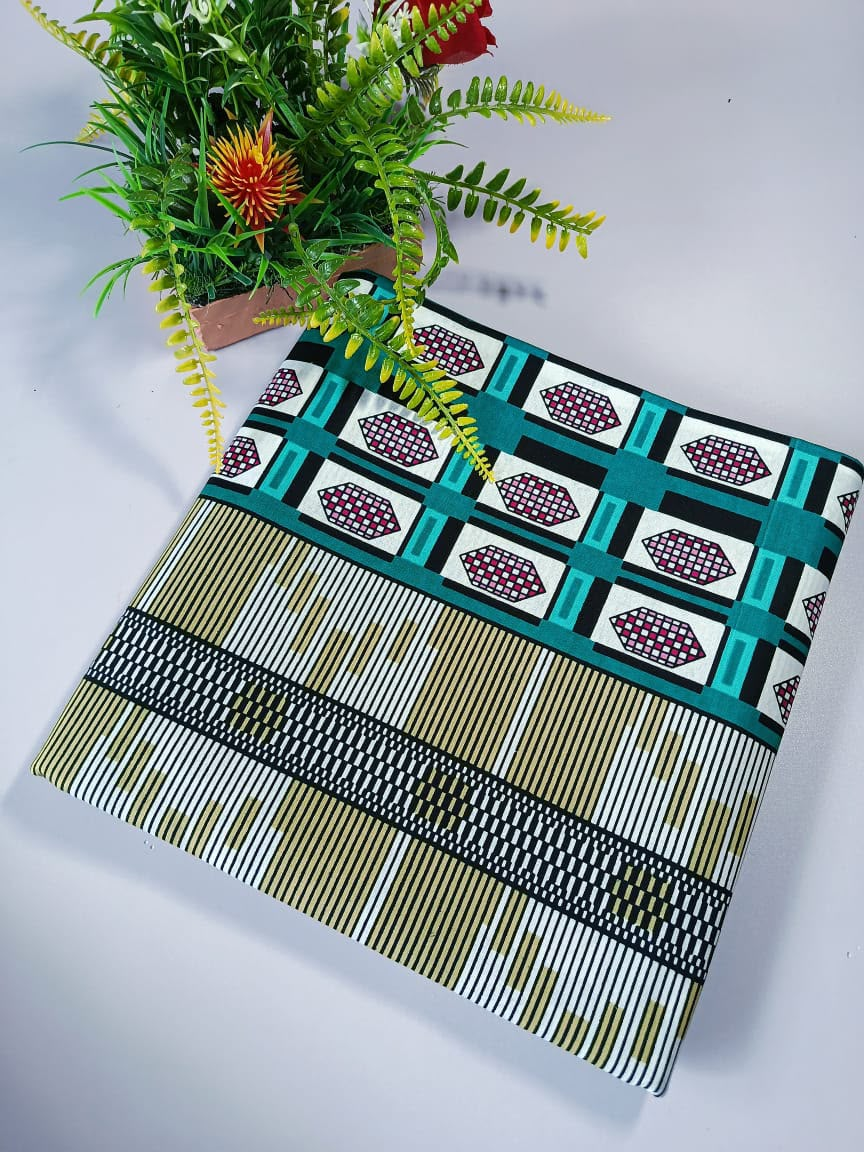
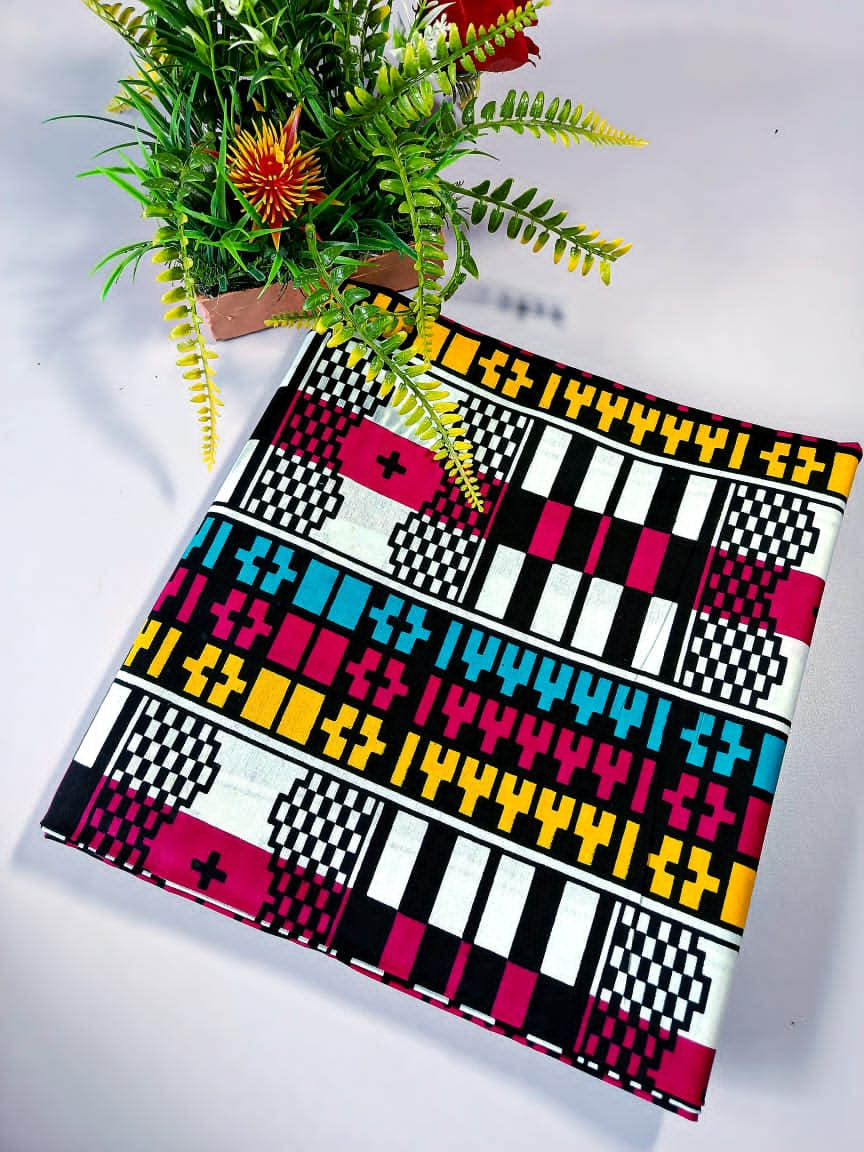
new wrappers and edited new section

diff --git a/src/data/products.js b/src/data/products.js
@@ -63,16 +63,11 @@ export const products = [
   // ----------------------------------------------------------
   // WRAPPER MATERIALS
   // ----------------------------------------------------------
-  {id:'ayaba-neutral-wrapper',name:'Ayaba Neutral Wrapper Material',category:'wrapper-materials',label:'Wrapper Materials',price:48000,material:'Premium printed cotton',image:'image-wrapper-1',badge:'New',description:'A refined cocoa-and-black wrapper material with bold bow-inspired geometric motifs and fine linear detailing.'},
-  {id:'ewa-magenta-wrapper',name:'Ewa Magenta Wrapper Material',category:'wrapper-materials',label:'Wrapper Materials',price:52000,material:'Premium printed cotton',image:'image-wrapper-2',badge:'New',description:'A vibrant magenta wrapper material patterned with rhythmic yellow, white, green, and black woven-style forms.'},
-  {id:'igbo-green-wrapper',name:'Igbo Green Wrapper Material',category:'wrapper-materials',label:'Wrapper Materials',price:48000,material:'Premium printed cotton',image:'image-wrapper-3',badge:'New',description:'A striking green-and-black wrapper material with graphic repeating motifs and structured linework.'},
-  {id:'omi-blue-wrapper',name:'Omi Blue Wrapper Material',category:'wrapper-materials',label:'Wrapper Materials',price:50000,material:'Premium printed cotton',image:'image-wrapper-4',badge:'New',description:'A vivid turquoise wrapper material featuring bold black-and-white heritage-inspired geometric bands.'},
-  {id:'adire-teal-wrapper',name:'Adire Teal Wrapper Material',category:'wrapper-materials',label:'Wrapper Materials',price:54000,material:'Premium printed cotton',image:'image-wrapper-5',badge:'New',description:'A composed teal, cream, and black wrapper design combining framed motifs with finely striped borders.'},
-  {id:'orun-sky-wrapper',name:'Orun Sky Wrapper Material',category:'wrapper-materials',label:'Wrapper Materials',price:54000,material:'Premium printed cotton',image:'image-wrapper-6',badge:'New',description:'A bright sky-blue, yellow, and charcoal wrapper material arranged in expressive horizontal pattern bands.'},
-  {id:'ile-harvest-wrapper',name:'Ile Harvest Wrapper Pair',category:'wrapper-materials',label:'Wrapper Materials',price:68000,material:'Coordinated premium printed cotton',image:'image-wrapper-7',badge:'New',description:'A coordinated wrapper pairing in lively green, ochre, and earthen tones with complementary graphic motifs.'},
-  {id:'asa-earth-wrapper',name:'Asa Earth Wrapper Material',category:'wrapper-materials',label:'Wrapper Materials',price:52000,material:'Premium printed cotton',image:'image-wrapper-8',badge:'New',description:'An earth-toned wrapper material with vivid green and ochre symbols set against crisp black-and-white geometry.'},
-  {id:'ayo-colour-wrapper',name:'Ayo Colour Wrapper Material',category:'wrapper-materials',label:'Wrapper Materials',price:16000,material:'Premium printed cotton',image:'image-wrapper-9',badge:'New',description:'A joyful multicolour wrapper design in magenta, turquoise, yellow, black, and white statement bands.'},
-  {id:'zuri-rhythm-wrapper',name:'Zuri Rhythm Wrapper Material',category:'wrapper-materials',label:'Wrapper Materials',price:16000,material:'Premium printed cotton',image:'image-wrapper-10',badge:'New',description:'A rhythmic blue, magenta, and yellow wrapper material with repeated diamonds and finely striped sections.'},
+  {id:'abeni-garnet-wrapper',name:'Abeni Garnet Wrapper Material',category:'wrapper-materials',label:'Wrapper Materials',price:48000,material:'Premium African wax cotton',image:'image-wrapper-1',badge:'New',description:'A rich garnet, black, and antique-gold wax print formed from layered dotted curves and crisp white outlines.'},
+  {id:'zuri-abstract-wrapper',name:'Zuri Abstract Wrapper Material',category:'wrapper-materials',label:'Wrapper Materials',price:52000,material:'Premium African wax cotton',image:'image-wrapper-2',badge:'New',description:'An expressive teal, violet, amber, and black wax print with an organic crackled abstract finish.'},
+  {id:'ife-stone-glitter-wrapper',name:'Ife Stone Glitter Wrapper Material',category:'wrapper-materials',label:'Wrapper Materials',price:48000,material:'Embellished African wax cotton',image:'image-wrapper-3',badge:'New',description:'A cool grey wax material swept with violet, forest-green, ivory, and blue botanical forms and glitter accents.'},
+  {id:'ola-monochrome-wrapper',name:'Ola Monochrome Wrapper Material',category:'wrapper-materials',label:'Wrapper Materials',price:50000,material:'Premium African wax cotton',image:'image-wrapper-4',badge:'New',description:'A graphic black-and-white wax print combining radiating circular motifs with a contrasting marbled panel.'},
+  {id:'ayomi-geometric-wrapper',name:'Ayomi Geometric Wrapper Material',category:'wrapper-materials',label:'Wrapper Materials',price:16000,material:'Premium printed cotton',image:'image-wrapper-5',badge:'New',description:'A lively wrapper material combining magenta, turquoise, yellow, black, and white heritage-inspired geometry.'},
   {id:'ododo-mono-wrapper',name:'Ododo Monochrome Wrapper Material',category:'wrapper-materials',label:'Wrapper Materials',price:46000,material:'Soft printed cotton',image:'image-wrapper-11',badge:'New',description:'A timeless black wrapper material decorated with delicate white floral medallions and stitched-style lines.'},
   {id:'okocha-harvest-wrapper',name:'Okocha Harvest Wrapper Material',category:'wrapper-materials',label:'Wrapper Materials',price:54000,material:'Premium printed cotton',image:'image-wrapper-12',badge:'New',description:'A warm green, brown, and yellow wrapper material with layered geometric bands and traditional accents.'},
   {id:'osupa-night-wrapper',name:'Osupa Night Wrapper Material',category:'wrapper-materials',label:'Wrapper Materials',price:47000,material:'Soft printed cotton',image:'image-wrapper-13',badge:'New',description:'A deep black wrapper print featuring moon-like medallions, stars, and delicate white-and-blue detailing.'},
@@ -80,7 +75,6 @@ export const products = [
   {id:'dara-indigo-wrapper',name:'Dara Indigo Wrapper Material',category:'wrapper-materials',label:'Wrapper Materials',price:49000,material:'Soft printed cotton',image:'image-wrapper-15',badge:'New',description:'A rich black wrapper material accented with indigo diamonds, floral marks, and finely patterned borders.'},
   {id:'ileke-mono-wrapper',name:'Ileke Monochrome Wrapper Material',category:'wrapper-materials',label:'Wrapper Materials',price:49000,material:'Soft printed cotton',image:'image-wrapper-16',badge:'New',description:'A distinctive monochrome wrapper material composed of hand-drawn-style geometric and organic pattern panels.'},
   {id:'aso-colourband-wrapper',name:'Aso Colourband Wrapper Material',category:'wrapper-materials',label:'Wrapper Materials',price:35000,material:'Premium printed cotton',image:'image-wrapper-17',badge:'New',description:'A bold black wrapper material arranged in vivid blue, red, yellow, orange, and ivory geometric bands.'},
-  {id:'ayomi-geometric-wrapper',name:'Ayomi Geometric Wrapper Material',category:'wrapper-materials',label:'Wrapper Materials',price:16000,material:'Premium printed cotton',image:'image-wrapper-18',badge:'New',description:'A lively wrapper material combining magenta, turquoise, yellow, black, and white heritage-inspired geometry.'},
   {id:'dudu-bloom-wrapper',name:'Dudu Bloom Wrapper Material',category:'wrapper-materials',label:'Wrapper Materials',price:25000,material:'Soft printed cotton',image:'image-wrapper-19',badge:'New',description:'A refined black wrapper material patterned with delicate pale-blue floral marks in an even repeating rhythm.'},
   {id:'abeni-heritage-wrapper',name:'Abeni Heritage Wrapper Material',category:'wrapper-materials',label:'Wrapper Materials',price:35000,material:'Premium printed cotton',image:'image-wrapper-20',badge:'New',description:'A warm geometric wrapper material arranged in brown, purple, ivory, burgundy, and black heritage-inspired bands.'},
 

diff --git a/src/styles.css b/src/styles.css
@@ -31,7 +31,7 @@
 .sheet[class*="image-jewel-"]{background-size:cover!important;background-position:center!important;background-color:#f5f5f5}
 .sheet.image-shoes-1{background-image:url('/assets/s1.jpeg')}.sheet.image-shoes-2{background-image:url('/assets/s2.jpeg')}.sheet.image-shoes-3{background-image:url('/assets/s3.jpeg')}.sheet.image-shoes-4{background-image:url('/assets/s4.jpeg')}.sheet.image-shoes-5{background-image:url('/assets/s5.jpeg')}.sheet.image-shoes-6{background-image:url('/assets/s6.jpeg')}.sheet.image-shoes-7{background-image:url('/assets/s7.jpeg')}.sheet.image-shoes-8{background-image:url('/assets/s8.jpeg')}.sheet.image-shoes-9{background-image:url('/assets/s9.jpeg')}.sheet.image-shoes-10{background-image:url('/assets/s10.jpeg')}.sheet.image-shoes-11{background-image:url('/assets/s11.jpeg')}.sheet.image-shoes-12{background-image:url('/assets/s12.jpeg')}.sheet.image-shoes-13{background-image:url('/assets/s13.jpeg')}
 .sheet[class*="image-shoes-"]{background-size:cover!important;background-position:center!important;background-color:#f5f5f5}
-.sheet.image-wrapper-1{background-image:url('/assets/w1.jpeg')}.sheet.image-wrapper-2{background-image:url('/assets/w2.jpeg')}.sheet.image-wrapper-3{background-image:url('/assets/w3.jpeg')}.sheet.image-wrapper-4{background-image:url('/assets/w4.jpeg')}.sheet.image-wrapper-5{background-image:url('/assets/w5.jpeg')}.sheet.image-wrapper-6{background-image:url('/assets/w6.jpeg')}.sheet.image-wrapper-7{background-image:url('/assets/w7.jpeg')}.sheet.image-wrapper-8{background-image:url('/assets/w8.jpeg')}.sheet.image-wrapper-9{background-image:url('/assets/w9.jpeg')}.sheet.image-wrapper-10{background-image:url('/assets/w10.jpeg')}.sheet.image-wrapper-11{background-image:url('/assets/w11.jpeg')}.sheet.image-wrapper-12{background-image:url('/assets/w12.jpeg')}.sheet.image-wrapper-13{background-image:url('/assets/w13.jpeg')}.sheet.image-wrapper-14{background-image:url('/assets/w14.jpeg')}.sheet.image-wrapper-15{background-image:url('/assets/w15.jpeg')}.sheet.image-wrapper-16{background-image:url('/assets/w16.jpeg')}.sheet.image-wrapper-17{background-image:url('/assets/w17.jpeg')}.sheet.image-wrapper-18{background-image:url('/assets/w18.jpeg')}.sheet.image-wrapper-19{background-image:url('/assets/w19.jpeg')}.sheet.image-wrapper-20{background-image:url('/assets/w20.png')}
+.sheet.image-wrapper-1{background-image:url('/assets/w1.jpeg')}.sheet.image-wrapper-2{background-image:url('/assets/w2.jpeg')}.sheet.image-wrapper-3{background-image:url('/assets/w3.jpeg')}.sheet.image-wrapper-4{background-image:url('/assets/w4.jpeg')}.sheet.image-wrapper-5{background-image:url('/assets/w5.jpeg')}.sheet.image-wrapper-11{background-image:url('/assets/w11.jpeg')}.sheet.image-wrapper-12{background-image:url('/assets/w12.jpeg')}.sheet.image-wrapper-13{background-image:url('/assets/w13.jpeg')}.sheet.image-wrapper-14{background-image:url('/assets/w14.jpeg')}.sheet.image-wrapper-15{background-image:url('/assets/w15.jpeg')}.sheet.image-wrapper-16{background-image:url('/assets/w16.jpeg')}.sheet.image-wrapper-17{background-image:url('/assets/w17.jpeg')}.sheet.image-wrapper-18{background-image:url('/assets/w18.jpeg')}.sheet.image-wrapper-19{background-image:url('/assets/w19.jpeg')}.sheet.image-wrapper-20{background-image:url('/assets/w20.png')}
 .sheet[class*="image-wrapper-"]{background-size:cover!important;background-position:center!important;background-color:#f5f5f5}
 .sheet.image-lace-product-1{background-image:url('/assets/lace1.jpeg')}.sheet.image-lace-product-2{background-image:url('/assets/lace2.jpeg')}.sheet.image-lace-product-3{background-image:url('/assets/lace3.jpeg')}.sheet.image-lace-product-4{background-image:url('/assets/lace4.jpeg')}.sheet.image-lace-product-5{background-image:url('/assets/lace5.jpeg')}.sheet.image-lace-product-6{background-image:url('/assets/lace6.jpeg')}.sheet.image-lace-product-7{background-image:url('/assets/lace7.jpeg')}.sheet.image-lace-product-8{background-image:url('/assets/lace8.jpeg')}.sheet.image-lace-product-9{background-image:url('/assets/lace9.jpeg')}.sheet.image-lace-product-10{background-image:url('/assets/lace10.jpeg')}.sheet.image-lace-product-11{background-image:url('/assets/lace11.jpeg')}.sheet.image-lace-product-12{background-image:url('/assets/lace12.jpeg')}.sheet.image-lace-product-13{background-image:url('/assets/lace13.jpeg')}.sheet.image-lace-product-14{background-image:url('/assets/lace14.jpeg')}.sheet.image-lace-product-15{background-image:url('/assets/lace15.jpeg')}.sheet.image-lace-product-16{background-image:url('/assets/lace16.jpeg')}.sheet.image-lace-product-17{background-image:url('/assets/lace17.jpeg')}.sheet.image-lace-product-18{background-image:url('/assets/lace18.jpeg')}.sheet.image-lace-product-19{background-image:url('/assets/lace19.jpeg')}.sheet.image-lace-product-20{background-image:url('/assets/lace20.jpeg')}.sheet.image-lace-product-21{background-image:url('/assets/lace21.jpeg')}
 .sheet.image-lace-product-22{background-image:url('/assets/lace22.png')}.sheet.image-lace-product-23{background-image:url('/assets/lace23.jpeg')}.sheet.image-lace-product-24{background-image:url('/assets/lace24.jpeg')}.sheet.image-lace-product-25{background-image:url('/assets/lace25.jpeg')}
@@ -88,3 +88,17 @@
 
 /* Sold-out products */
 .quick-add:disabled,.detail-add:disabled{background:#777;color:#fff;cursor:not-allowed;box-shadow:none;transform:none}
+
+/* Freshly arrived carousel */
+.featured-carousel-shell{position:relative}
+.featured-carousel{--featured-gap:18px;overflow:hidden;scrollbar-width:none;overscroll-behavior-inline:contain}
+.featured-carousel::-webkit-scrollbar{display:none}
+.featured-track{display:flex;width:max-content}
+.featured-group{display:flex;gap:var(--featured-gap);padding-right:var(--featured-gap)}
+.featured-group .product-card{flex:0 0 calc((90vw - 54px)/4);width:calc((90vw - 54px)/4)}
+.featured-arrow{position:absolute;z-index:5;top:40%;width:42px;height:42px;border:1px solid #ddd;border-radius:50%;background:rgba(255,255,255,.94);display:grid;place-items:center;cursor:pointer;box-shadow:0 7px 22px rgba(0,0,0,.12);transition:background .2s,color .2s,transform .2s}
+.featured-arrow:hover{background:#111;color:#fff;transform:scale(1.05)}
+.featured-arrow-prev{left:10px}.featured-arrow-next{right:10px}
+@media(max-width:900px){.featured-group .product-card{flex-basis:calc((100vw - 66px)/2);width:calc((100vw - 66px)/2)}}
+@media(max-width:560px){.featured-carousel{--featured-gap:10px}.featured-group .product-card{flex-basis:calc((100vw - 42px)/2);width:calc((100vw - 42px)/2)}.featured-arrow{width:36px;height:36px;top:37%}.featured-arrow-prev{left:5px}.featured-arrow-next{right:5px}}
+@media(prefers-reduced-motion:reduce){.featured-carousel{overflow-x:auto;scroll-snap-type:x mandatory}.featured-group .product-card{scroll-snap-align:start}.featured-group[aria-hidden="true"]{display:none}}

diff --git a/src/pages/Home.jsx b/src/pages/Home.jsx
@@ -1,18 +1,19 @@
 import { Link } from 'react-router-dom';
 import { categories, products } from '../data/products';
-import ProductGrid from '../components/ProductGrid';
+import FeaturedCarousel from '../components/FeaturedCarousel';
 import { ArrowUpRight } from '../components/Icons';
 import HeroCarousel from '../components/HeroCarousel';
 
 export default function Home(){
   const featuredProducts=categories
+    .filter(category=>category.id!=='men-materials')
     .map(category=>products.find(product=>product.category===category.id&&!product.soldOut))
     .filter(Boolean);
 
   return <>
     <HeroCarousel/>
     <div className="ticker"><div>ELEGANT&nbsp;&nbsp; ✦ &nbsp;&nbsp;HERITAGE&nbsp;&nbsp; ✦ &nbsp;&nbsp;LUXURY&nbsp;&nbsp; ✦ &nbsp;&nbsp;CRAFTED IN ABUJA&nbsp;&nbsp; ✦ &nbsp;&nbsp;ELEGANT&nbsp;&nbsp; ✦ &nbsp;&nbsp;HERITAGE&nbsp;&nbsp; ✦ &nbsp;&nbsp;LUXURY</div></div>
-    <section className="products section-pad"><div className="section-head"><div><p className="eyebrow">Freshly arrived</p><h2>New signatures</h2></div><Link className="mini-link" to="/shop">View all →</Link></div><ProductGrid items={featuredProducts}/><Link className="under-link" to="/shop">View all pieces <span>→</span></Link></section>
+    <section className="products section-pad"><div className="section-head"><div><p className="eyebrow">Freshly arrived</p><h2>New signatures</h2></div><Link className="mini-link" to="/shop">View all →</Link></div><FeaturedCarousel items={featuredProducts}/><Link className="under-link" to="/shop">View all pieces <span>→</span></Link></section>
     <section className="editorial"><img src="/assets/osen-editorial.png" alt="Osen' Luxe editorial campaign"/><div className="editorial-copy"><p className="eyebrow">Occasion, reimagined</p><h2>Dressing that<br/><em>speaks first.</em></h2><p>Confident lines, heritage textiles, and a modern Abuja point of view. Every piece is made for entrances worth remembering.</p><Link className="btn btn-light" to="/collections">Discover the edit <ArrowUpRight/></Link></div></section>
     <section className="categories section-pad"><div className="section-head"><div><p className="eyebrow">Find your statement</p><h2>Shop by category</h2></div></div><div className="category-grid category-grid-seven">{categories.map((category,index)=><Link key={category.id} to={`/shop?category=${category.id}`} className="category-card"><div className={`sheet ${category.image}`}></div><span><b>{String(index+1).padStart(2,'0')}</b><strong>{category.label}</strong><em>Explore →</em></span></Link>)}</div></section>
     <section className="story" id="story"><div className="story-mark">OL</div><div className="story-copy"><p className="eyebrow">The Osen' point of view</p><h2>Heritage is not a trend.<br/><em>It is our beginning.</em></h2><p>Osen' Luxe pairs Nigerian textile traditions with measured, modern silhouettes. Designed in Abuja in limited runs, each piece honours the hands and stories behind it.</p><Link className="under-link light-link" to="/contact">Meet the atelier <span>→</span></Link></div><div className="story-stat"><strong>Small runs.</strong><p>Thoughtfully made,<br/>never mass produced.</p></div></section>

diff --git a/src/components/FeaturedCarousel.jsx b/src/components/FeaturedCarousel.jsx
@@ -1,0 +1,68 @@
+import { useEffect, useRef } from 'react';
+import ProductCard from './ProductCard';
+
+export default function FeaturedCarousel({items}){
+  const viewportRef=useRef(null);
+  const pausedRef=useRef(false);
+  const scrollTimerRef=useRef(null);
+
+  const getGroupWidth=()=>viewportRef.current?.querySelector('.featured-group')?.offsetWidth||0;
+  const getStep=()=>{
+    const viewport=viewportRef.current;
+    const card=viewport?.querySelector('.product-card');
+    if(!viewport||!card)return 0;
+    const gap=parseFloat(getComputedStyle(viewport).getPropertyValue('--featured-gap'))||0;
+    return card.getBoundingClientRect().width+gap;
+  };
+
+  const slide=direction=>{
+    const viewport=viewportRef.current;
+    if(!viewport)return;
+    const groupWidth=getGroupWidth();
+    if(direction<0&&viewport.scrollLeft<=1)viewport.scrollLeft=groupWidth;
+    viewport.scrollBy({
+      left:direction*getStep(),
+      behavior:window.matchMedia('(prefers-reduced-motion: reduce)').matches?'auto':'smooth'
+    });
+  };
+
+  const handleScroll=()=>{
+    clearTimeout(scrollTimerRef.current);
+    scrollTimerRef.current=setTimeout(()=>{
+      const viewport=viewportRef.current;
+      const groupWidth=getGroupWidth();
+      if(viewport&&groupWidth&&viewport.scrollLeft>=groupWidth)viewport.scrollLeft-=groupWidth;
+    },120);
+  };
+
+  useEffect(()=>{
+    const interval=setInterval(()=>{
+      if(!pausedRef.current)slide(1);
+    },3200);
+    return()=>{
+      clearInterval(interval);
+      clearTimeout(scrollTimerRef.current);
+    };
+  },[items.length]);
+
+  return <div
+    className="featured-carousel-shell"
+    onMouseEnter={()=>{pausedRef.current=true}}
+    onMouseLeave={()=>{pausedRef.current=false}}
+    onFocusCapture={()=>{pausedRef.current=true}}
+    onBlurCapture={()=>{pausedRef.current=false}}
+  >
+    <div className="featured-carousel" ref={viewportRef} onScroll={handleScroll}>
+      <div className="featured-track">
+        <div className="featured-group">
+          {items.map(product=><ProductCard key={product.id} product={product}/>)}
+        </div>
+        <div className="featured-group" aria-hidden="true">
+          {items.map(product=><ProductCard key={`duplicate-${product.id}`} product={product}/>)}
+        </div>
+      </div>
+    </div>
+    <button className="featured-arrow featured-arrow-prev" onClick={()=>slide(-1)} aria-label="Previous featured product">←</button>
+    <button className="featured-arrow featured-arrow-next" onClick={()=>slide(1)} aria-label="Next featured product">→</button>
+  </div>;
+}
